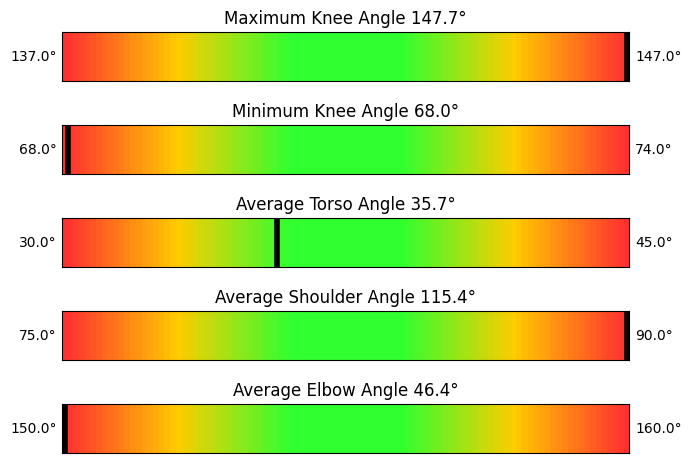
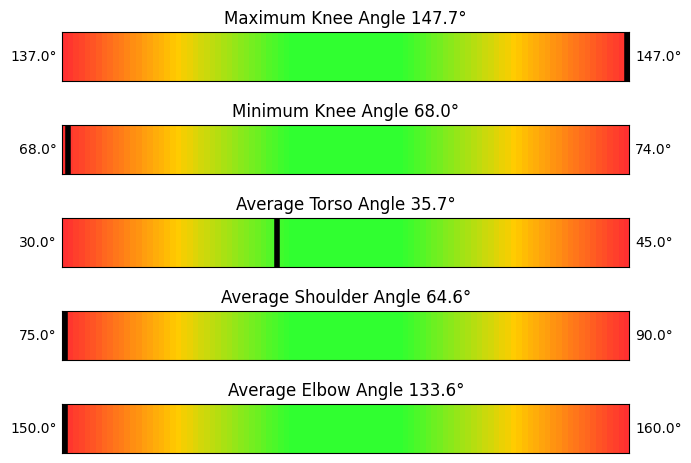
bugfix: change vector orientation

diff --git a/src/FrameEvaluation/frame_evaluator.py b/src/FrameEvaluation/frame_evaluator.py
@@ -43,7 +43,7 @@ class FrameEvaluator:
         hip2knee = self._normalize(body_position.knee_position_px - body_position.hip_position_px)
         knee2ankle = self._normalize(body_position.ankle_position_px - body_position.knee_position_px)
         hip2shoulder = self._normalize(body_position.shoulder_position_px - body_position.hip_position_px)
-        shoulder2elbow = self._normalize(body_position.elbow_position_px - body_position.shoulder_position_px)
+        elbow2shoulder = self._normalize(body_position.shoulder_position_px - body_position.elbow_position_px)
         elbow2wrist = self._normalize(body_position.wrist_position_px - body_position.elbow_position_px)
         horizontal_line = np.array([1, 0])
         if self.left_side_front:
@@ -52,8 +52,8 @@ class FrameEvaluator:
         return BodyAngles(
             knee_angle=180 - self._angle_between_vectors(hip2knee, knee2ankle),
             hip_angle=self._angle_between_vectors(hip2knee, hip2shoulder),
-            elbow_angle=self._angle_between_vectors(shoulder2elbow, elbow2wrist),
-            shoulder_angle=self._angle_between_vectors(hip2shoulder, shoulder2elbow),
+            elbow_angle=self._angle_between_vectors(elbow2shoulder, elbow2wrist),
+            shoulder_angle=self._angle_between_vectors(hip2shoulder, elbow2shoulder),
             torso_angle=self._angle_between_vectors(hip2shoulder, horizontal_line),
         )
 
